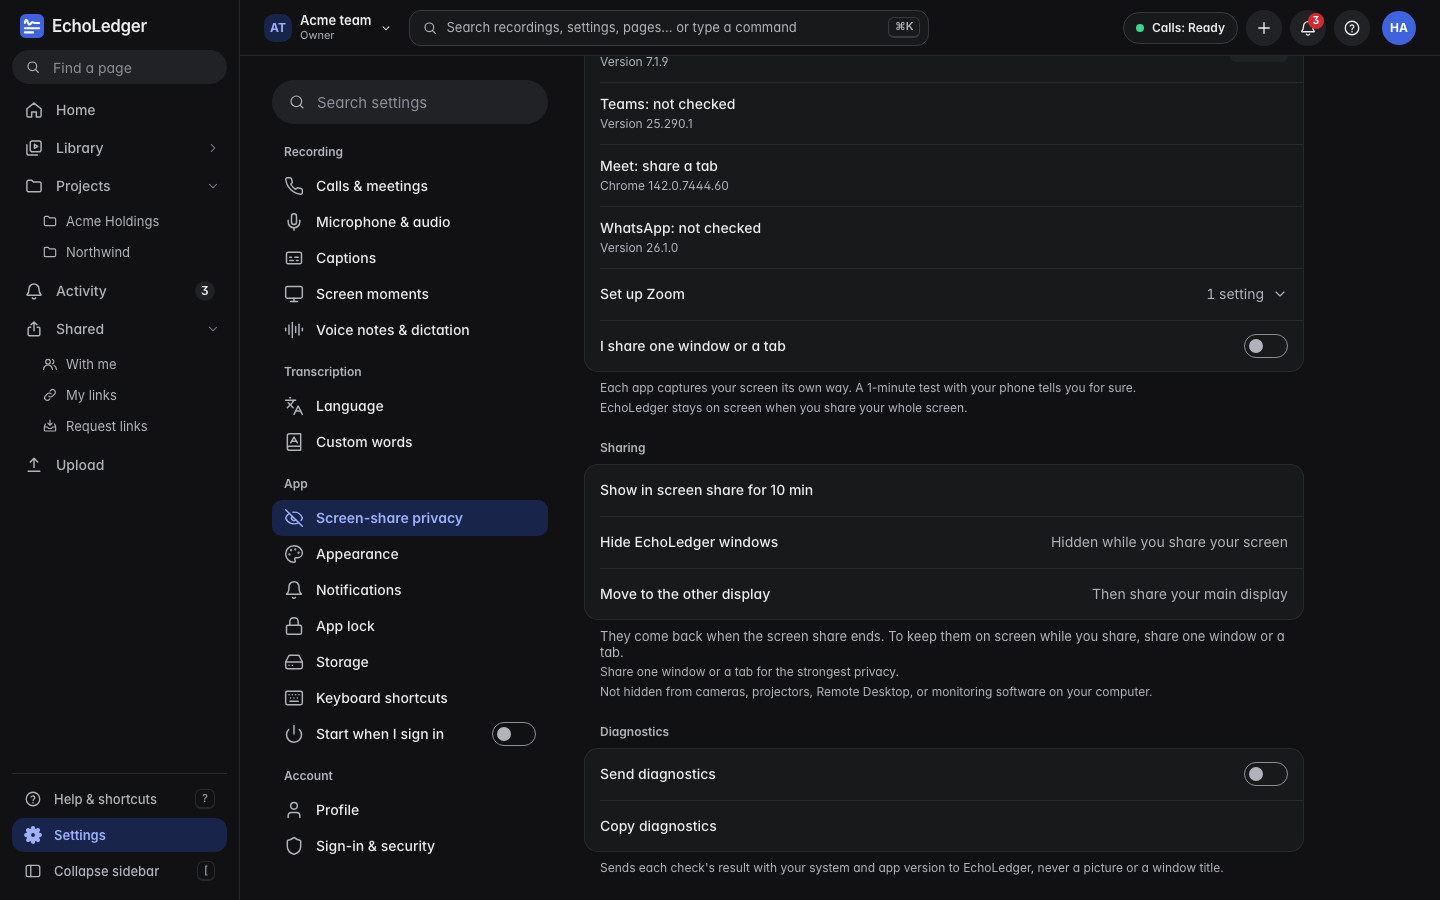
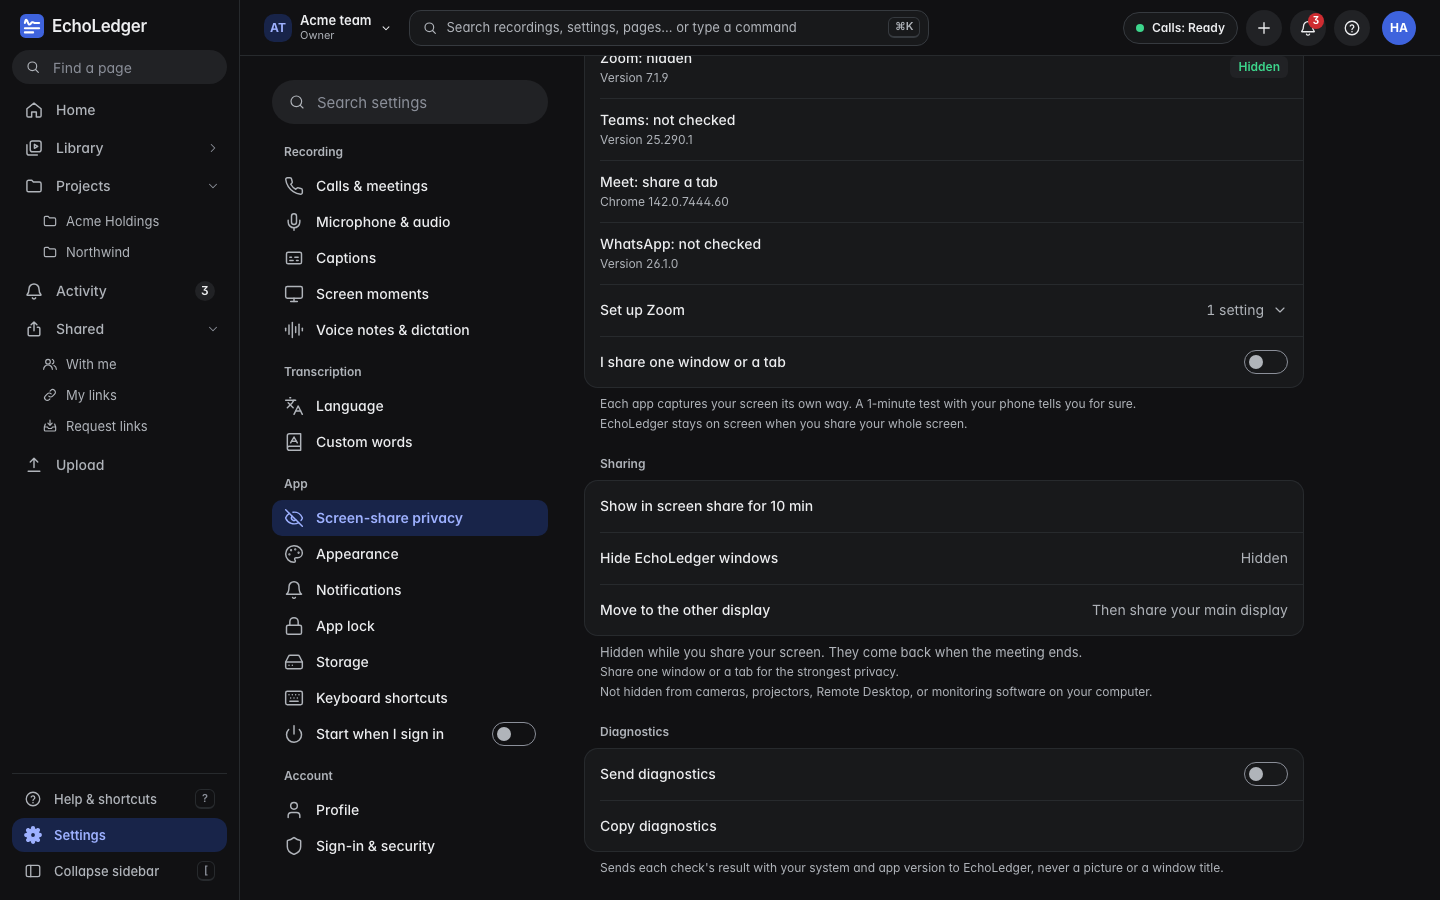
Tray: drawn on the main thread with no lock held while waiting for it, and the R1 sentence while the bar holds
- tray::update no longer holds the tray's locks while the menu, tooltip and icon calls wait for the main thread: what
  changed is decided under the locks (TrayCache::changes), the locks are let go, and the drawing runs on the main
  thread without being waited for. A sync command there (Hide EchoLedger windows, privacy_set_hidden, a setting via
  update_settings, an open by the person) and the safety net refreshing the status at once can no longer deadlock;
  every caller goes through this one path (commands::status).
- The privacy status reads the share it shows before it asks the main thread for the displays, so no lock is held then.
- While the sharing bar keeps the windows off, the tray and Settings > Screen-share privacy say exactly "Hidden while
  you share your screen. They come back when the meeting ends." (R1); the row says Hidden, and the one-window tip is no
  longer repeated under the line.
- Tests: the decision under the locks and the locks free afterwards (also from another thread); structurally, update
  takes no lock and posts to the main thread, and no lock is held across a call that waits for it; the tray's and the
  page's sentence. Screenshots of the bar case, light and dark.

(cherry picked from commit 025cde89ffb514b5649eeebb5dafa5967a7b7479)

diff --git a/desktop/src/views/main/PrivacySettings.test.tsx b/desktop/src/views/main/PrivacySettings.test.tsx
@@ -5,7 +5,7 @@ vi.mock("@tauri-apps/api/event", async () => (await import("../../test/tauri")).
 import { callsOf, emitEvent, fail, resetTauriMock, respond } from "../../test/tauri";
 import { makePrivacyStatus, makeSettings } from "../../test/fixtures";
 import type { ShareCheckView } from "../../lib/ipc";
-import { BACK_AFTER_SHARE, GUIDED_ALONE, LIMITS, ONE_WINDOW_TIP, OPEN_SYSTEM_SETTINGS, OnboardingShareCheck, PATTERN_FLASH, SHARE_NOTICE, ShareCheckPage, ShareNotice, SharePrivacyPage, lastCheckValue } from "./PrivacySettings";
+import { GUIDED_ALONE, HIDDEN_WHILE_SHARING, LIMITS, ONE_WINDOW_TIP, OPEN_SYSTEM_SETTINGS, OnboardingShareCheck, PATTERN_FLASH, SHARE_NOTICE, ShareCheckPage, ShareNotice, SharePrivacyPage, lastCheckValue } from "./PrivacySettings";
 import { resetClosedBanners } from "../../components/StateBanner";
 import { setting } from "../../lib/settingsRegistry";
 import ShareCheckWindow, { CONTROL_TEXT } from "../sharecheck/ShareCheckWindow";
@@ -192,11 +192,15 @@ describe("Settings › Screen-share privacy", () => {
     expect(callsOf("privacy_set_hidden")).toEqual([{ hidden: false }]);
   });
 
-  it("does not offer Show while the sharing bar is on screen, and says when they come back", async () => {
+  it("does not offer Show while the sharing bar is on screen, and says when they come back in the tray's words", async () => {
     respond("privacy_status", makePrivacyStatus({ platform: "macos", hiddenForShare: true, barOnScreen: true }));
     render(<SharePrivacyPage settings={makeSettings()} patch={vi.fn(async () => true)} onCheck={() => undefined} />);
-    expect(await screen.findByText("Hidden while you share your screen")).toBeInTheDocument();
-    expect(screen.getByTestId("back-after-share")).toHaveTextContent(BACK_AFTER_SHARE);
+    const line = await screen.findByTestId("back-after-share");
+    expect(line).toHaveTextContent(/^Hidden while you share your screen\. They come back when the meeting ends\.$/);
+    expect(HIDDEN_WHILE_SHARING).toBe("Hidden while you share your screen. They come back when the meeting ends.");
+    expect(line).not.toHaveTextContent(/one window/i);
+    expect(screen.getAllByText(ONE_WINDOW_TIP), "the one-window tip once, on the next line").toHaveLength(1);
+    expect(screen.queryByText("Hidden while you share your screen"), "said once, in the line").toBeNull();
     expect(screen.queryByRole("button", { name: "Show EchoLedger windows" }), "it would last until the next look").toBeNull();
     // The bar was hidden (Zoom hid its controls): Show works again.
     respond("privacy_status", makePrivacyStatus({ platform: "macos", hiddenForShare: true, barOnScreen: false }));

diff --git a/desktop/src/views/main/PrivacySettings.tsx b/desktop/src/views/main/PrivacySettings.tsx
@@ -30,8 +30,9 @@ export const PATTERN_FLASH = "While it checks, a checkered test window and a gre
 /** The main window opened during a whole-screen share that keeps the floating windows off (since v1.8.1). */
 export const SHARE_NOTICE = "You're sharing your whole screen, so this window may be visible in the screen share.";
 
-/** While a sharing bar keeps the windows off, "Show EchoLedger windows" would last until the next look: what happens. */
-export const BACK_AFTER_SHARE = "They come back when the screen share ends. To keep them on screen while you share, share one window or a tab.";
+/** While the sharing bar keeps the windows off, "Show EchoLedger windows" would last until the next look: what happens,
+ * in the tray's words (R1, tray.rs HIDDEN_WHILE_SHARING). */
+export const HIDDEN_WHILE_SHARING = "Hidden while you share your screen. They come back when the meeting ends.";
 
 /** The label of every button that opens the system's settings on this page. */
 export const OPEN_SYSTEM_SETTINGS = "Open System Settings";
@@ -94,10 +95,11 @@ export function useCountdown(seconds: number | null): number | null {
   return left ? left : null;
 }
 
-/** What "Hide EchoLedger windows" says now (pure): hidden, and why; none while the windows are on screen. */
+/** What "Hide EchoLedger windows" says now (pure): hidden, and why; none while the windows are on screen. While the
+ * sharing bar holds them, the section's line says why and when they come back, so the row only says Hidden. */
 export function hiddenValue(s: PrivacyStatus | null): string | null {
   if (s?.hiddenByShortcut) return "Hidden";
-  if (s?.hiddenForShare) return "Hidden while you share your screen";
+  if (s?.hiddenForShare) return s.barOnScreen ? "Hidden" : "Hidden while you share your screen";
   return null;
 }
 
@@ -171,7 +173,7 @@ export function SharePrivacyPage({ settings, patch, onCheck }: { settings: Setti
         </Section>
       )}
       <Section title="Sharing" footer={<>
-        {status?.barOnScreen && <p className="privacy-line" role="status" data-testid="back-after-share">{BACK_AFTER_SHARE}</p>}
+        {status?.barOnScreen && status.hiddenForShare && <p className="privacy-line" role="status" data-testid="back-after-share">{HIDDEN_WHILE_SHARING}</p>}
         <p>{ONE_WINDOW_TIP}</p><p>{LIMITS}</p>
         {problem && <p className="privacy-line warning" role="alert">{problem}</p>}
       </>}>

diff --git a/desktop/src-tauri/src/tray.rs b/desktop/src-tauri/src/tray.rs
@@ -211,13 +211,35 @@ pub fn hidden_line(privacy: &crate::privacy::Privacy) -> Option<Hidden> {
     }
 }
 
-/// While a sharing bar keeps the windows off: when they come back, and what keeps them on screen next time.
-pub const BACK_AFTER_SHARE: &str = "They come back when the screen share ends";
+/// While the sharing bar keeps the windows off (R1): the tray and Settings › Screen-share privacy say exactly this.
+pub const HIDDEN_WHILE_SHARING: &str = "Hidden while you share your screen. They come back when the meeting ends.";
 
 #[derive(Default)]
 pub struct TrayCache {
     shape: Mutex<Option<MenuShape>>,
     state: Mutex<Option<TrayState>>,
+}
+
+impl TrayCache {
+    /// What the tray must change to show `state` and `shape`, kept as what it shows. The locks are let go when this
+    /// returns: the tray calls that follow wait for the main thread, and none may wait while holding them.
+    fn changes(&self, state: TrayState, shape: MenuShape) -> (Option<TrayState>, Option<MenuShape>) {
+        let state = {
+            let mut last = self.state.lock().unwrap_or_else(|p| p.into_inner());
+            let changed = *last != Some(state);
+            *last = Some(state);
+            changed.then_some(state)
+        };
+        let shape = {
+            let mut current = self.shape.lock().unwrap_or_else(|p| p.into_inner());
+            let changed = current.as_ref() != Some(&shape);
+            if changed {
+                *current = Some(shape.clone());
+            }
+            changed.then_some(shape)
+        };
+        (state, shape)
+    }
 }
 
 /// One line of the tray menu: an action, a check item (`checked` is `Some`) or a separator (C2: short, grouped).
@@ -245,8 +267,7 @@ fn menu_entries(shape: &MenuShape) -> Vec<Entry> {
             entries.push(item("show_windows", "Show EchoLedger windows"));
         }
         Some(Hidden::ShareBar) => {
-            entries.push(Entry::Item { id: "hidden_share", label: "Hidden while you share your screen".into(), enabled: false, checked: None });
-            entries.push(Entry::Item { id: "back_after_share", label: BACK_AFTER_SHARE.into(), enabled: false, checked: None });
+            entries.push(Entry::Item { id: "hidden_share", label: HIDDEN_WHILE_SHARING.into(), enabled: false, checked: None });
         }
     }
     entries.push(Entry::Separator);
@@ -437,32 +458,7 @@ pub struct Switches {
 /// voice note spoken into the microphone; `viewer`: the viewer sentence when this computer may not record.
 #[allow(clippy::too_many_arguments)]
 pub fn update(app: &AppHandle, state: TrayState, paused: bool, mic_note: bool, pill_hidden: bool, pending: usize, switches: Switches, viewer: Option<String>) {
-    let Some(cache) = app.try_state::<TrayCache>() else {
-        return;
-    };
-    let Some(tray) = app.tray_by_id(TRAY_ID) else {
-        return;
-    };
     let recording = matches!(state, TrayState::Recording | TrayState::Paused);
-
-    let mut last = cache.state.lock().unwrap_or_else(|p| p.into_inner());
-    if *last != Some(state) {
-        *last = Some(state);
-        let _ = tray.set_tooltip(Some(tooltip(state)));
-        if let Some(base) = tray_base(app) {
-            let shown = look(state, cfg!(target_os = "macos"));
-            let mut rgba = base.rgba().to_vec();
-            if let Some((tile, ink)) = shown.tile {
-                paint_tile(&mut rgba, base.width(), base.height(), tile, ink);
-            }
-            if let Some(colour) = shown.dot {
-                paint_dot(&mut rgba, base.width(), base.height(), colour);
-            }
-            let _ = tray.set_icon_with_as_template(Some(Image::new_owned(rgba, base.width(), base.height())), shown.template);
-        }
-    }
-    drop(last);
-
     let shape = MenuShape {
         recording,
         paused: recording && paused,
@@ -476,12 +472,38 @@ pub fn update(app: &AppHandle, state: TrayState, paused: bool, mic_note: bool, p
         share_demo: switches.share_demo,
         hidden: switches.hidden,
     };
-    let mut current = cache.shape.lock().unwrap_or_else(|p| p.into_inner());
-    if current.as_ref() != Some(&shape) {
-        if let Ok(menu) = build_menu(app, &shape) {
-            let _ = tray.set_menu(Some(menu));
+    // The tray is drawn on the main thread and never waited for: a sync command there (Hide EchoLedger windows, a setting)
+    // refreshes the status while other threads (the safety net, uploads) do too, so nobody holds the tray's locks while
+    // waiting for the main thread. On the main thread itself this runs at once.
+    let handle = app.clone();
+    let _ = app.run_on_main_thread(move || draw(&handle, state, shape));
+}
+
+/// On the main thread: what changed is decided under the cache's locks ([`TrayCache::changes`]), let go before the tray is
+/// touched.
+fn draw(app: &AppHandle, state: TrayState, shape: MenuShape) {
+    let (Some(cache), Some(tray)) = (app.try_state::<TrayCache>(), app.tray_by_id(TRAY_ID)) else {
+        return;
+    };
+    let (state, shape) = cache.changes(state, shape);
+    if let Some(state) = state {
+        let _ = tray.set_tooltip(Some(tooltip(state)));
+        if let Some(base) = tray_base(app) {
+            let shown = look(state, cfg!(target_os = "macos"));
+            let mut rgba = base.rgba().to_vec();
+            if let Some((tile, ink)) = shown.tile {
+                paint_tile(&mut rgba, base.width(), base.height(), tile, ink);
+            }
+            if let Some(colour) = shown.dot {
+                paint_dot(&mut rgba, base.width(), base.height(), colour);
+            }
+            let _ = tray.set_icon_with_as_template(Some(Image::new_owned(rgba, base.width(), base.height())), shown.template);
         }
-        *current = Some(shape);
+    }
+    if let Some(shape) = shape
+        && let Ok(menu) = build_menu(app, &shape)
+    {
+        let _ = tray.set_menu(Some(menu));
     }
 }
 
@@ -588,10 +610,43 @@ mod tests {
         assert_eq!(&labels(&share)[..4], ["Open EchoLedger", "Hidden while you share your screen", "Show EchoLedger windows", "---"]);
         let line = menu_entries(&share).into_iter().find(|e| matches!(e, Entry::Item { id: "hidden_share", .. })).unwrap();
         assert!(matches!(line, Entry::Item { enabled: false, .. }), "the reason is not an action");
-        // With the sharing bar on screen "Show" would last until the next look: the tray says when they come back.
+        // With the sharing bar on screen "Show" would last until the next look: the tray says when they come back (R1).
         let bar = MenuShape { hidden: Some(Hidden::ShareBar), ..MenuShape::default() };
-        assert_eq!(&labels(&bar)[..4], ["Open EchoLedger", "Hidden while you share your screen", "They come back when the screen share ends", "---"]);
-        assert!(menu_entries(&bar).iter().all(|e| !matches!(e, Entry::Item { id: "show_windows", .. }) && !matches!(e, Entry::Item { id: "back_after_share", enabled: true, .. })));
+        assert_eq!(&labels(&bar)[..3], ["Open EchoLedger", "Hidden while you share your screen. They come back when the meeting ends.", "---"]);
+        assert!(menu_entries(&bar).iter().all(|e| !matches!(e, Entry::Item { id: "show_windows", .. }) && !matches!(e, Entry::Item { enabled: true, id: "hidden_share", .. })));
+    }
+
+    #[test]
+    fn the_tray_decides_under_its_locks_and_draws_after_letting_them_go() {
+        let cache = TrayCache::default();
+        let idle = MenuShape::default();
+        assert_eq!(cache.changes(TrayState::Idle, idle.clone()), (Some(TrayState::Idle), Some(idle.clone())), "the first draw");
+        assert_eq!(cache.changes(TrayState::Idle, idle.clone()), (None, None), "nothing changed: nothing is drawn");
+        let hidden = MenuShape { hidden: Some(Hidden::Person), ..MenuShape::default() };
+        assert_eq!(cache.changes(TrayState::Idle, hidden.clone()), (None, Some(hidden)));
+        assert_eq!(cache.changes(TrayState::Recording, MenuShape { hidden: Some(Hidden::Person), ..MenuShape::default() }).0, Some(TrayState::Recording));
+        // The locks are free once the decision is made, from any thread.
+        assert!(cache.state.try_lock().is_ok() && cache.shape.try_lock().is_ok());
+        let shared = std::sync::Arc::new(TrayCache::default());
+        let other = std::sync::Arc::clone(&shared);
+        std::thread::spawn(move || other.changes(TrayState::Paused, MenuShape::default())).join().unwrap();
+        assert!(shared.state.try_lock().is_ok() && shared.shape.try_lock().is_ok());
+
+        // Structurally: the update any thread calls takes no lock and posts the drawing to the main thread, and no lock
+        // is held across a call that waits for the main thread.
+        let code = include_str!("tray.rs").split("#[cfg(test)]").next().unwrap();
+        let body = |name: &str| {
+            let at = code.find(name).unwrap_or_else(|| panic!("{name}"));
+            &code[at..at + code[at..].find("\n}\n").unwrap()]
+        };
+        let update = body("pub fn update(");
+        assert!(update.contains("app.run_on_main_thread(") && !update.contains(".lock()"), "update never waits for the main thread");
+        let draw = body("fn draw(");
+        assert!(!draw.contains(".lock()") && draw.contains("cache.changes("), "the locks are taken only inside changes()");
+        let changes = body("fn changes(");
+        for waits in ["set_menu", "set_tooltip", "set_icon", "build_menu", "Menu::new", "run_on_main_thread"] {
+            assert!(!changes.contains(waits), "{waits} under the tray's locks");
+        }
     }
 
     #[test]

diff --git a/desktop/src-tauri/src/privacy/check.rs b/desktop/src-tauri/src/privacy/check.rs
@@ -847,6 +847,8 @@ pub fn status(app: &AppHandle) -> PrivacyStatus {
         Platform::Other => Vec::new(),
     };
     let mac_version = os_version();
+    // Read before the answer is put together: no lock is held while the displays are asked of the main thread below.
+    let share = privacy.share_seen.lock().unwrap_or_else(|p| p.into_inner()).clone();
     let apps: Vec<AppRow> = if platform == Platform::Mac {
         MeetingApp::ALL
             .into_iter()
@@ -873,7 +875,7 @@ pub fn status(app: &AppHandle) -> PrivacyStatus {
         main_in_share: privacy.main_in_share(settings.hide_from_sharing),
         share_number: privacy.share_number(),
         bar_on_screen: privacy.bar_holds(),
-        share: privacy.share_seen.lock().unwrap_or_else(|p| p.into_inner()).clone(),
+        share,
         last_check: last.map(|r| LastCheck { at: r.at, result: r.result, reason: r.reason.clone(), methods: r.methods.clone() }),
         check_running: RUNNING.load(Ordering::SeqCst),
         check_due: due(&store, &os, version, Utc::now()),
